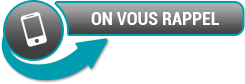
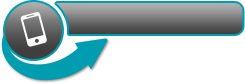
update pro

Changed region(s): [[0.3714, 0.1429, 0.9143, 0.3095]]

diff --git a/assets/stylesheet/style.less b/assets/stylesheet/style.less
@@ -2658,13 +2658,13 @@ body {
                             text-decoration: none;
                             background: url(../images/ico-rappel.png) no-repeat 0 50%;
 							background-size: 100%;
-							/*padding: 5px 0 0 50px;
-                            color: #009caf;
                             font-family: "Roboto Condensed";
-                            font-size: 16px;
-                            font-weight: bold;
-                            text-align: left;
-                            text-transform: uppercase;*/
+                            color: #fff;
+							font-size: 12px;
+							font-weight: bold;
+                            text-transform: uppercase;
+							text-align: right;
+							padding: 19px 15px 0 0;
                         }
 						form {
 							border: 2px solid #ffc000;

diff --git a/pro-1.html b/pro-1.html
@@ -705,7 +705,7 @@ depuis 1945, l'étiquette est différente chaque année, et souvent illustrée p
                     <p>0041 22 550 0 550</p>
                   </div>
                   <div class="right">
-                    <a href="#"></a>
+                    <a href="#">on vous rappel</a>
 					<form action="#" method="GET">
 						<input class="right-text" type="text" placeholder="your number"/>
 						<input type="submit" value="OK"/>

diff --git a/pro-2.html b/pro-2.html
@@ -470,7 +470,7 @@ depuis 1945, l'étiquette est différente chaque année, et souvent illustrée p
                     <p>0041 22 550 0 550</p>
                   </div>
                   <div class="right">
-                    <a href="#"></a>
+                    <a href="#">on vous rappel</a>
 					<form action="#" method="GET">
 						<input class="right-text" type="text" placeholder="your number"/>
 						<input type="submit" value="OK"/>

diff --git a/pro-3.html b/pro-3.html
@@ -472,7 +472,7 @@ depuis 1945, l'étiquette est différente chaque année, et souvent illustrée p
                     <p>0041 22 550 0 550</p>
                   </div>
                   <div class="right">
-                    <a href="#"></a>
+                    <a href="#">on vous rappel</a>
 					<form action="#" method="GET">
 						<input class="right-text" type="text" placeholder="your number"/>
 						<input type="submit" value="OK"/>
